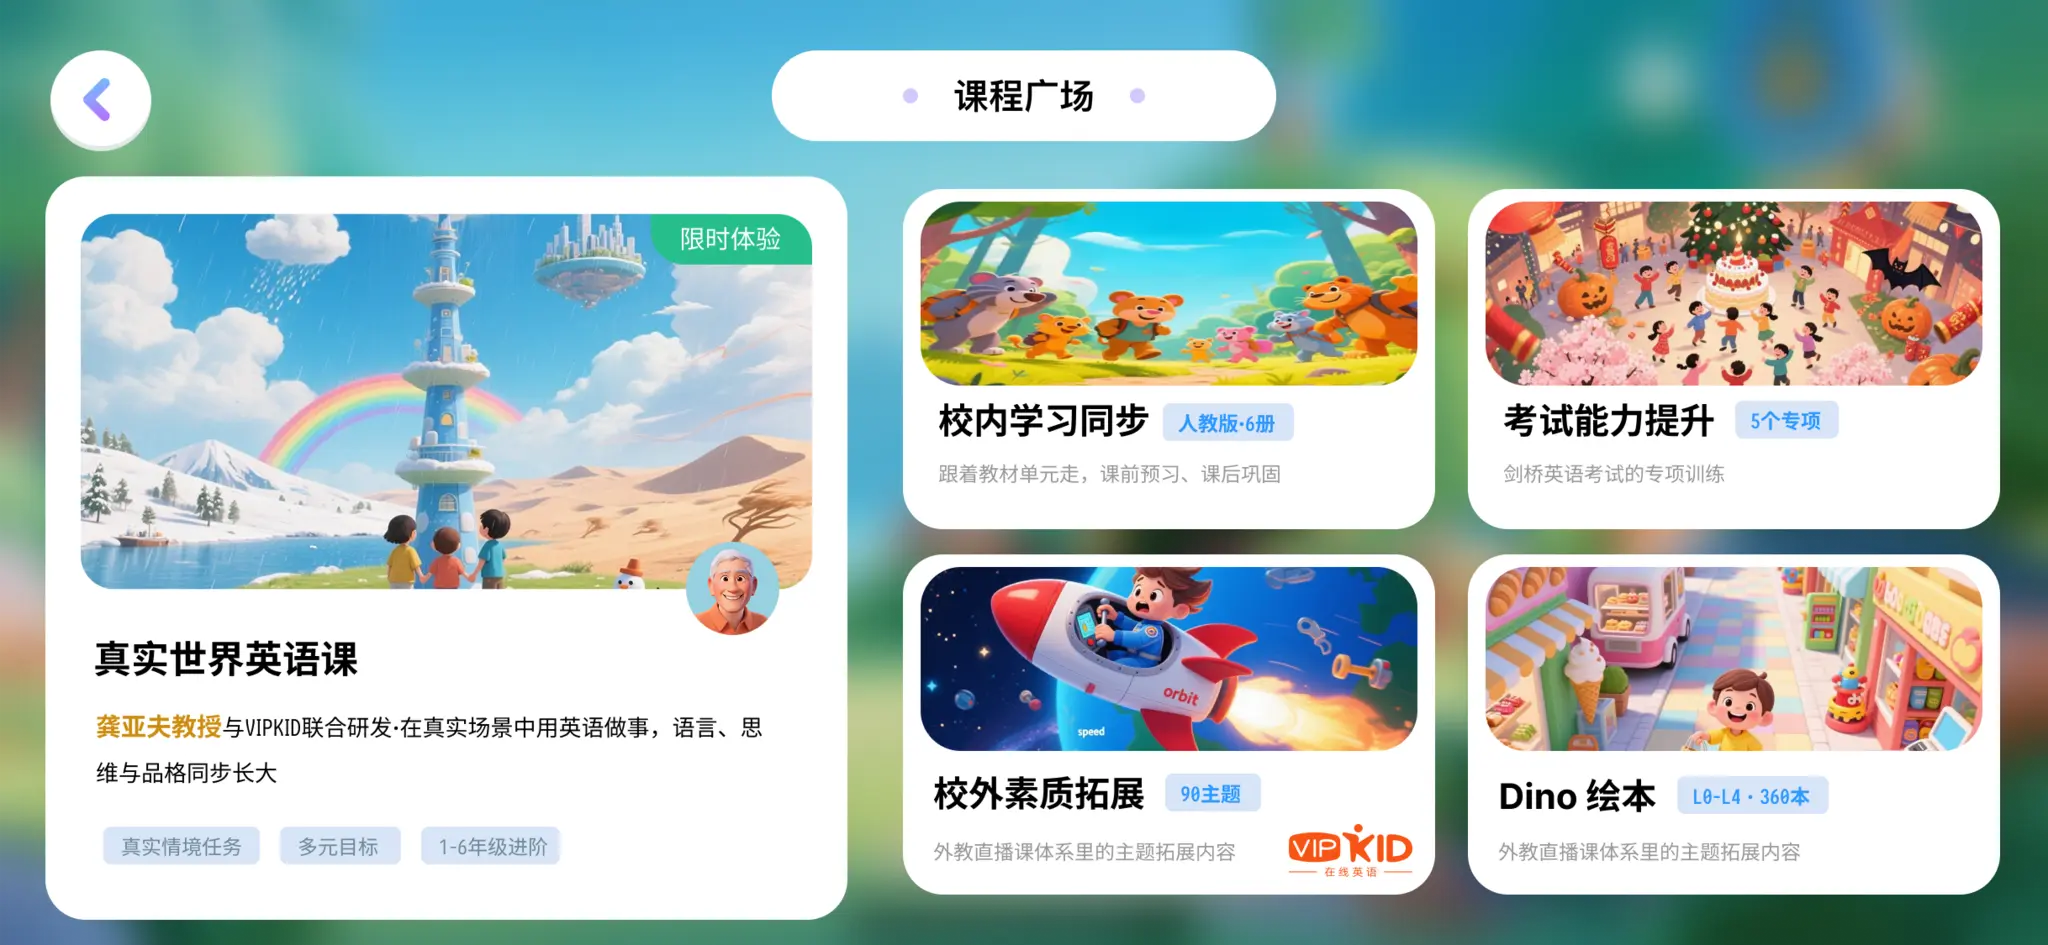
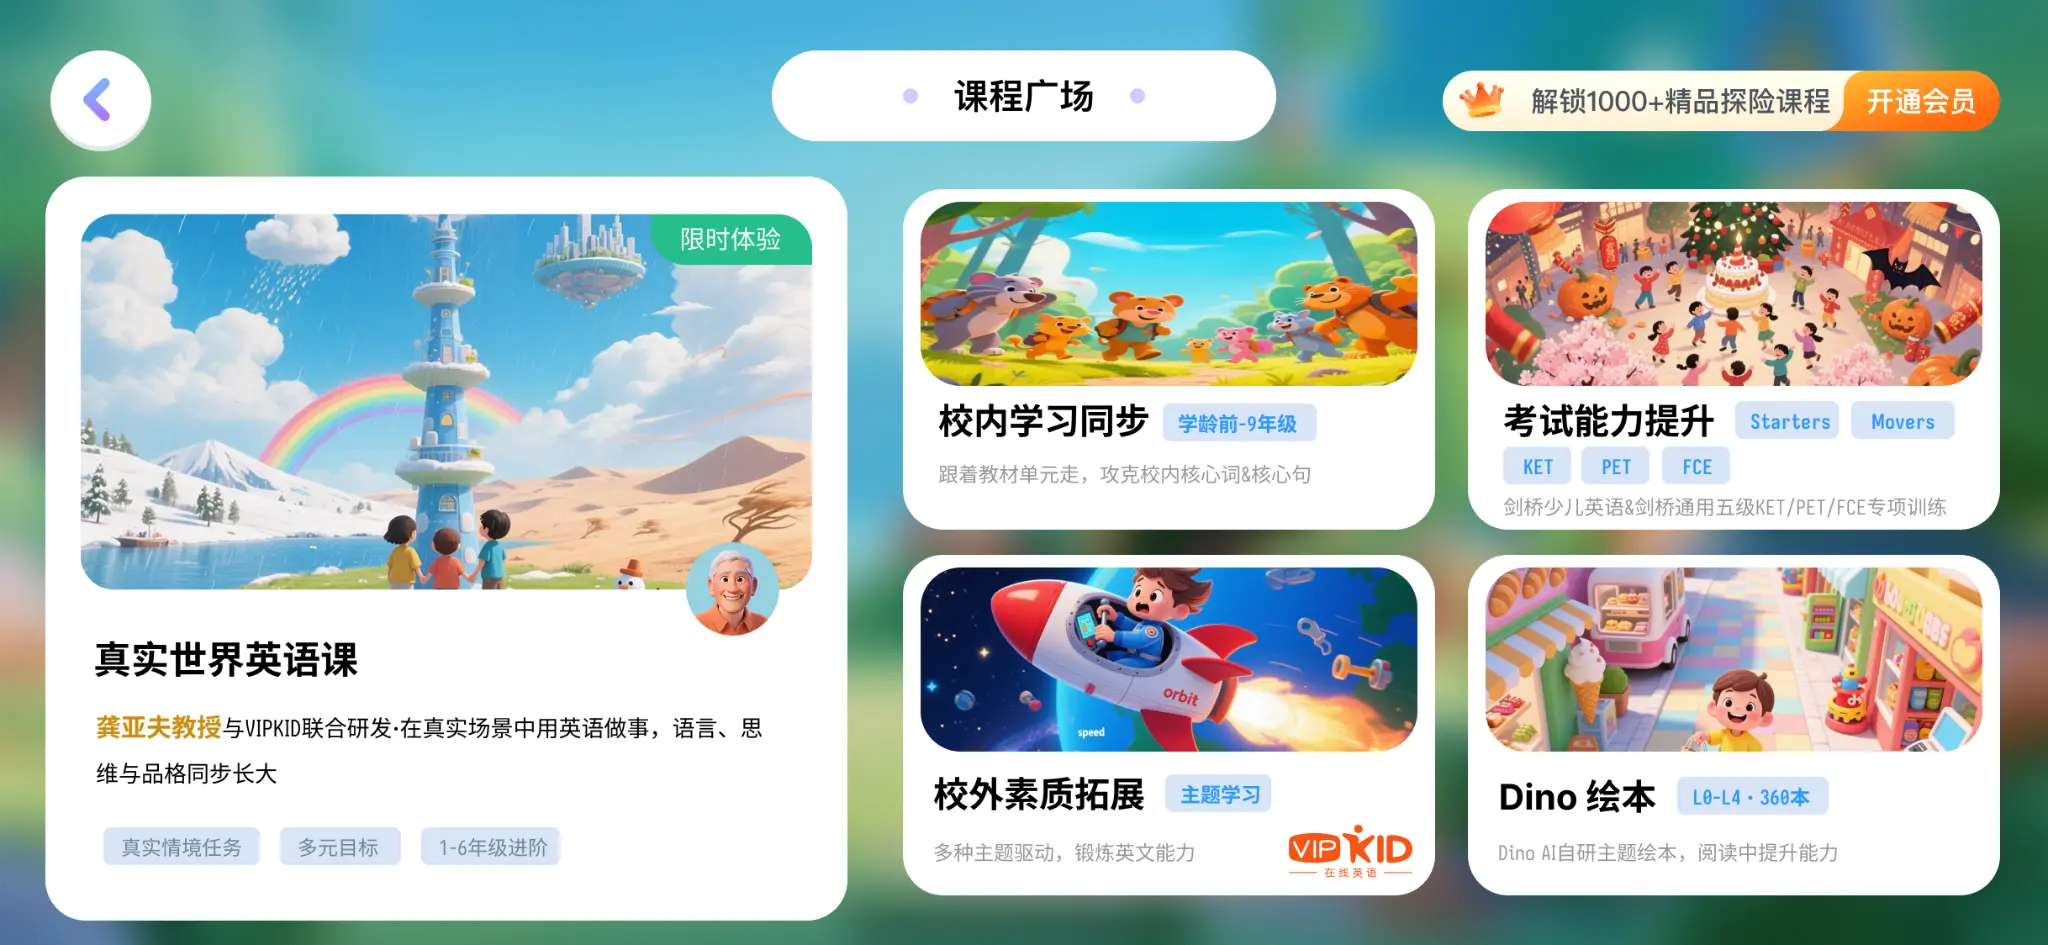
Replace course plaza artwork

diff --git a/course-plaza-guide.js b/course-plaza-guide.js
@@ -4,26 +4,6 @@
   const dismiss = document.querySelector("#dismissCoursePlazaGuide");
   if (!page || !guide || !dismiss) return;
 
-  const copyLayer = document.createElement("div");
-  copyLayer.className = "course-plaza-copy";
-  copyLayer.setAttribute("aria-label", "课程描述与标签");
-  copyLayer.innerHTML = `
-    <section class="course-copy course-copy--real"><p><strong>龚亚夫教授</strong>与VIPKID联合研发·在真实场景中用英语做事，语言、思维与品格同步长大</p><div><span>真实情境任务</span><span>多元目标</span><span>1-6年级进阶</span></div></section>
-    <section class="course-copy course-copy--sync"><p>跟着教材单元走，攻克校内核心词&amp;核心句</p></section>
-    <div class="course-title-tags course-title-tags--sync"><span>学龄前-9年级</span></div>
-    <section class="course-copy course-copy--exam"><p>剑桥少儿英语&amp;剑桥通用五级KET/PET/FCE专项训练</p><div><span>Starters</span><span>Movers</span><span>KET</span><span>PET</span><span>FCE</span></div></section>
-    <div class="course-title-tags course-title-tags--exam" aria-hidden="true"></div>
-    <section class="course-copy course-copy--quality"><p>多种主题驱动，锻炼英文能力</p><div><span>主题学习</span></div></section>
-    <div class="course-title-tags course-title-tags--quality" aria-hidden="true"></div>
-    <section class="course-copy course-copy--dino"><p>Dino AI自研主题绘本，阅读中提升能力</p></section>
-    <div class="course-title-tags course-title-tags--dino"><span>L0-L4 · 360本</span></div>`;
-  page.insertBefore(copyLayer, page.querySelector(".course-plaza-entry-header"));
-
-  const style = document.createElement("style");
-  style.textContent = `
-    .course-plaza-copy{position:absolute;inset:0;z-index:2;color:#767b82;pointer-events:none}.course-copy{position:absolute;display:flex;flex-direction:column;justify-content:flex-start;overflow:hidden;background:#fff}.course-copy p{margin:0;font-size:clamp(11px,1.22vw,18px);line-height:1.65}.course-copy strong{color:#d89a18;font-weight:900}.course-copy div,.course-title-tags{display:flex;flex-wrap:wrap;align-items:center;gap:clamp(5px,.65vw,10px)}.course-copy span,.course-title-tags span{display:inline-flex;align-items:center;justify-content:center;min-height:clamp(20px,2.7vh,28px);padding:2px clamp(7px,.9vw,13px);border-radius:6px;color:#5997c8;background:#e8f2ff;font-size:clamp(10px,1vw,15px);font-weight:700;white-space:nowrap}.course-copy--real{left:4.7%;top:74.2%;width:35.7%;height:20.4%;padding:.3% .1% 0}.course-copy--real p{color:#262d35;font-size:clamp(12px,1.34vw,20px);line-height:1.75}.course-copy--real div{margin-top:auto;padding-bottom:.8%}.course-copy--sync{left:45.8%;top:47.4%;width:22.1%;height:7.5%;padding:.2% 0 0}.course-copy--exam{left:73.2%;top:46.8%;width:22.9%;height:9.1%;padding:.2% 0 0}.course-copy--exam p{font-size:clamp(10px,1.04vw,16px);line-height:1.4}.course-copy--exam div{margin-top:4px;gap:4px}.course-copy--exam span{min-height:18px;padding:1px 6px;font-size:clamp(9px,.78vw,12px)}.course-copy--quality{left:45.8%;top:85.6%;width:22.2%;height:8.7%;padding:.2% 0 0}.course-copy--dino{left:73.3%;top:85.6%;width:22.5%;height:8.7%;padding:.2% 0 0}.course-title-tags{position:absolute;z-index:1;padding:2px 5px;background:#fff}.course-title-tags--sync{left:57%;top:40.4%}.course-title-tags--exam{left:85.5%;top:40.2%;width:8%;height:4.8%}.course-title-tags--quality{left:57%;top:79.2%;width:7.5%;height:4.8%}.course-title-tags--dino{left:84.2%;top:79.2%}.course-copy--quality div{margin-top:4px}`;
-  document.head.appendChild(style);
-
   let shownThisLoad = false;
   const closeGuide = () => {
     page.classList.remove("is-guide-active");
